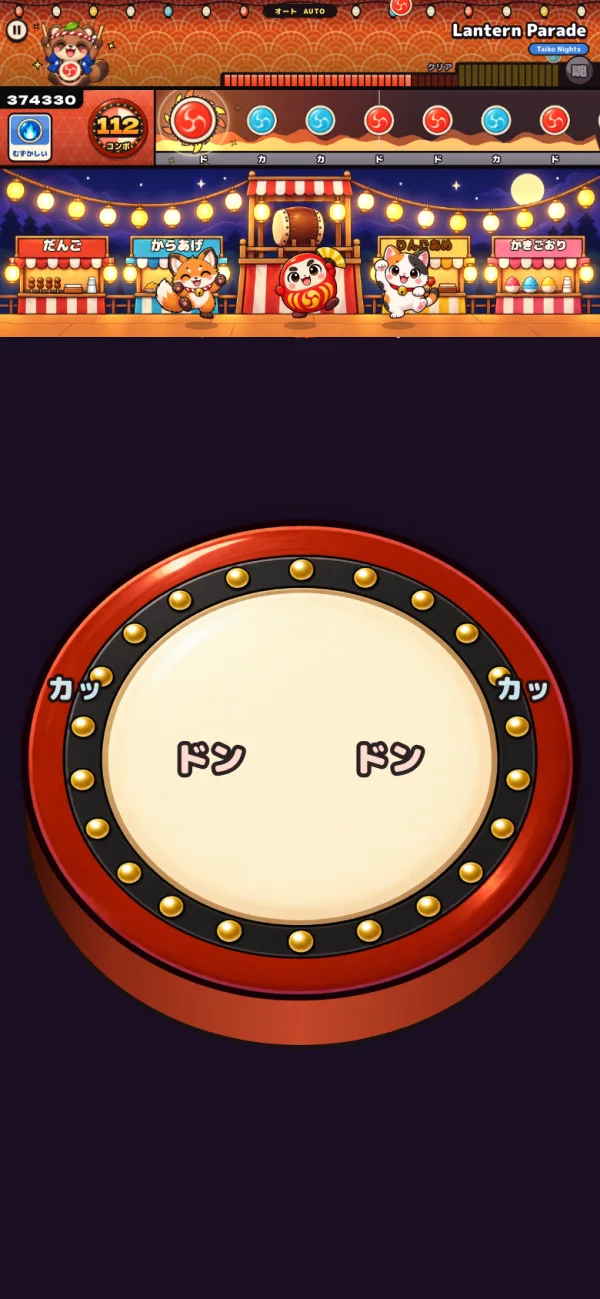
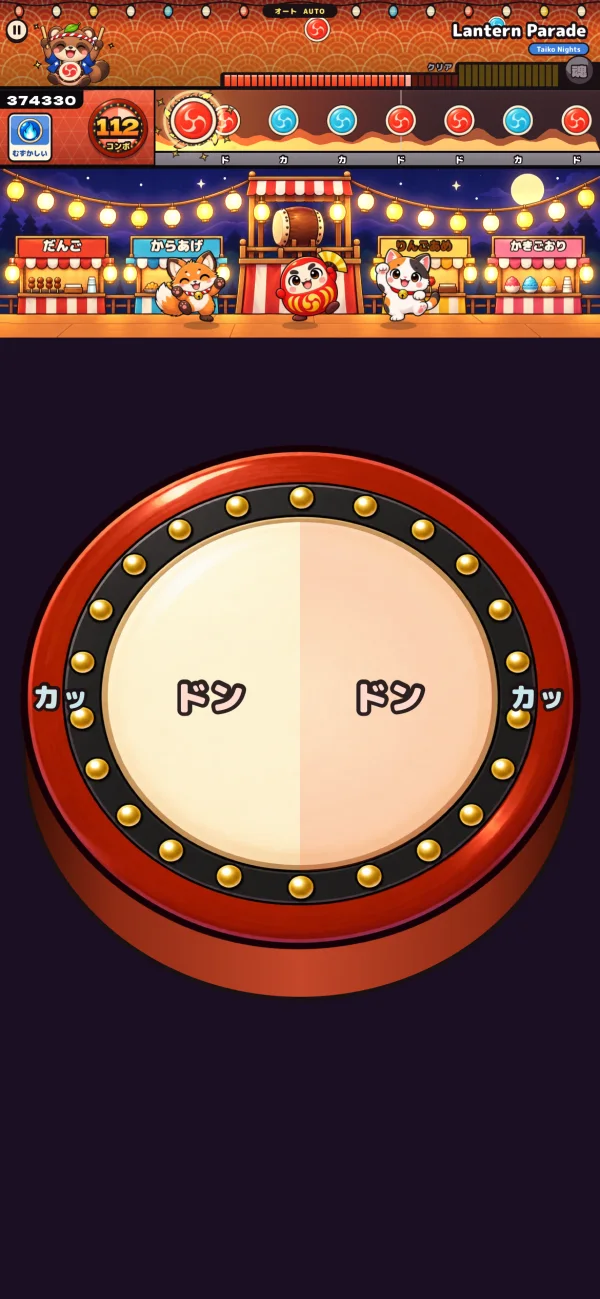
docs: the touch drum and the edge of the display

diff --git a/docs/qa.md b/docs/qa.md
@@ -8,7 +8,7 @@ server and a local backend. Viewports: 1280 x 720, 844 x 390 (phone, sideways) a
 
 | Suite | Command | Result |
 | --- | --- | --- |
-| Rules engine, browser analyser, built-in songs, stage layout and artwork | `npm test` | 52 passed |
+| Rules engine, browser analyser, built-in songs, stage layout and artwork | `npm test` | 54 passed |
 | Backend analysis, charting and API | `npm run test:backend` | 29 passed |
 | Hosting worker and build output | `npm run build && npm run test:sites` | 4 passed |
 
@@ -98,6 +98,10 @@ the development build and the static build served under `/taiko-nights/`.
 | Touch drum | Two fingers together play both hands | Pass |
 | Touch drum | Pause button is not a drum hit; the drum steps aside while paused | Pass |
 | Touch drum | Sideways it never covers the lane; upright it never runs off the screen | Pass after fix 24, automated |
+| Touch drum | With an iPhone's safe areas (21 px below, 47 px at each end): head ends 51 px above the bottom edge | Pass after fix 26 |
+| Touch drum | iPhone SE and a 915 x 412 Android phone, which keep no strip: head ends 29 and 30 px above the edge | Pass after fix 26 |
+| Notch | Score, pause button, gauge, title and song select arrows keep clear of both ends | Pass after fix 26 |
+| Home screen | Manifest and icons are served; the page asks to open full screen | Pass |
 | Touch drum | Festival friends line up behind the drum instead of under it | Pass |
 | Cut-off text | Audit on title, shelf, each song, help, settings and add dialogs at seven window shapes: 98 screens | Pass |
 | Whole site | The 35 end-to-end checks of the static build, in both browsers | Pass, 70 of 70 |
@@ -173,6 +177,11 @@ Causes and fixes:
     sized to the space it has, and a tablet held upright gets the stage at the top.
 25. **Generated sheets looked as if they had a murky background.** They did not: the
     colour sits under fully transparent pixels. Transparency is now measured.
+26. **The touch drum was played on the edge of the display.** Its widest part met the
+    bottom edge, which is where an iPhone listens for the swipe that leaves the game.
+    Reported from a real iPhone. The stage now moves up and is shorter while the drum
+    is out, the whole head of the drum sits above the strip the phone keeps, and only
+    the barrel reaches the edge. The HUD also keeps clear of the notch.
 
 The audit measures each text's letters, grows that box by half the outline width, and
 tests it against every ancestor that clips. It switches animations off while it
@@ -184,9 +193,12 @@ measures, so a panel that is still sliding open is judged by where it ends up.
   view. Animation was therefore judged from stepped frames (below) rather than by
   watching it in motion. Smoothness on a real display was not measured.
 - WebKit was tested through Playwright, not Safari itself. Firefox and physical
-  phones were not tested. The touch drum was played with emulated touches, which
+  phones were not tested here. The touch drum was played with emulated touches, which
   say nothing about how it feels under real thumbs or how late a phone's screen and
   speaker are. Use the timing offset in Settings.
+- The test browsers report no safe areas. An iPhone's were put in by hand (the
+  numbers an iPhone 14 reports), so the layout is checked but the device's own
+  gestures are not.
 - Drawing smoothness was measured without a graphics card. On a real display it was
   not measured.
 - The pictures were judged by one pair of eyes. Whether Yoru is appealing is for

diff --git a/AGENTS.md b/AGENTS.md
@@ -27,12 +27,13 @@ start-up instructions when you can run it.
    is generated as `docs/art/README.md` describes: from the canonical picture, on a
    sheet, then cut by `tools/art/cut.py`. Generated pixels are never redrawn by hand
    or in code, and pictures carry no writing. New art that shows Yoru must match
-   `docs/art/yoru-model-sheet.png`; the checklist is in `docs/art/README.md`.
+   `tools/art/sheets/yoru-canonical.webp`; the checklist is in `docs/art/README.md`.
 3. **The stage fills the window. Never letterbox it.** The design grid is 1280 x 720.
    A wider window adds columns, a taller one adds rows (`stageFor` and `setStage` in
    `src/game/layout.js`). Read sizes from `STAGE` at draw time, not at import time. In
    CSS, `--ox` and `--oy` say where the design grid begins and `--foot` is the curtain
-   under the festival.
+   under the festival. One exception: on a phone held sideways, while the touch drum
+   is out, the stage sits at the top and leaves a strip free under it (`reserveFor`).
 4. **Nothing may be cut off.** Outlined text that is also clipped needs padding equal
    to its outline (see the note at the top of `src/styles.css`). Canvas text that can
    be long uses `minSize` in `label()`, which shrinks and then shortens it; it is never
@@ -59,6 +60,10 @@ start-up instructions when you can run it.
    is a finger, or once the screen has been touched, and never for a mouse. Every
    touch plays something: the skin is don, everything else is ka. Its geometry lives
    in `src/game/touchDrum.js` and is tested; the painted skin is 69% of the drum.
+   **The head of the drum never reaches the bottom edge.** A phone keeps a strip
+   there for its own gestures (`env(safe-area-inset-bottom)`, read by
+   `src/ui/safeArea.js`); the head ends at least 16 px above it. The HUD likewise
+   keeps clear of a notch at either end (`STAGE.left`, `STAGE.right`).
 11. **Built-in songs are synthesised in plain JavaScript,** not with the Web Audio
    graph, which took 10 to 28 seconds a song in Chrome and Safari. `npm test` renders
    every song and checks its level, its tuning and that it is in time with its chart.

diff --git a/README.md b/README.md
@@ -77,9 +77,15 @@ keys and Enter work too.
 
 A taiko appears on screen. Tap its skin for ドン and its rim for カッ; the left and
 right halves are your two hands, so two fingers together play a big note. Nothing is
-wasted: a tap anywhere off the skin counts as the rim. Held sideways, the drum rises
-from the bottom edge and the festival friends dance behind it. Held upright, the
-stage sits at the top and the whole drum sits under it.
+wasted: a tap anywhere off the skin counts as the rim.
+
+Held sideways, the stage moves up to make room and the festival friends dance behind
+the drum. Held upright, the stage sits at the top and the drum sits under it. Either
+way the whole head of the drum stays clear of the bottom edge, where a phone listens
+for its own gestures, and the score and the pause button keep clear of the notch.
+
+For the full screen, add the game to your home screen (Share, then Add to Home
+Screen on an iPhone). It then opens without the browser's bars.
 
 | Sideways | Upright |
 | --- | --- |
@@ -210,7 +216,7 @@ npm run test:backend
 npm run build && npm run test:sites
 ```
 
-52 engine, analyser, song, layout and artwork tests, 29 backend tests, 4 hosting tests. What was
+54 engine, analyser, song, layout and artwork tests, 29 backend tests, 4 hosting tests. What was
 checked in real browsers is recorded in [docs/qa.md](docs/qa.md).
 
 ## Publish
